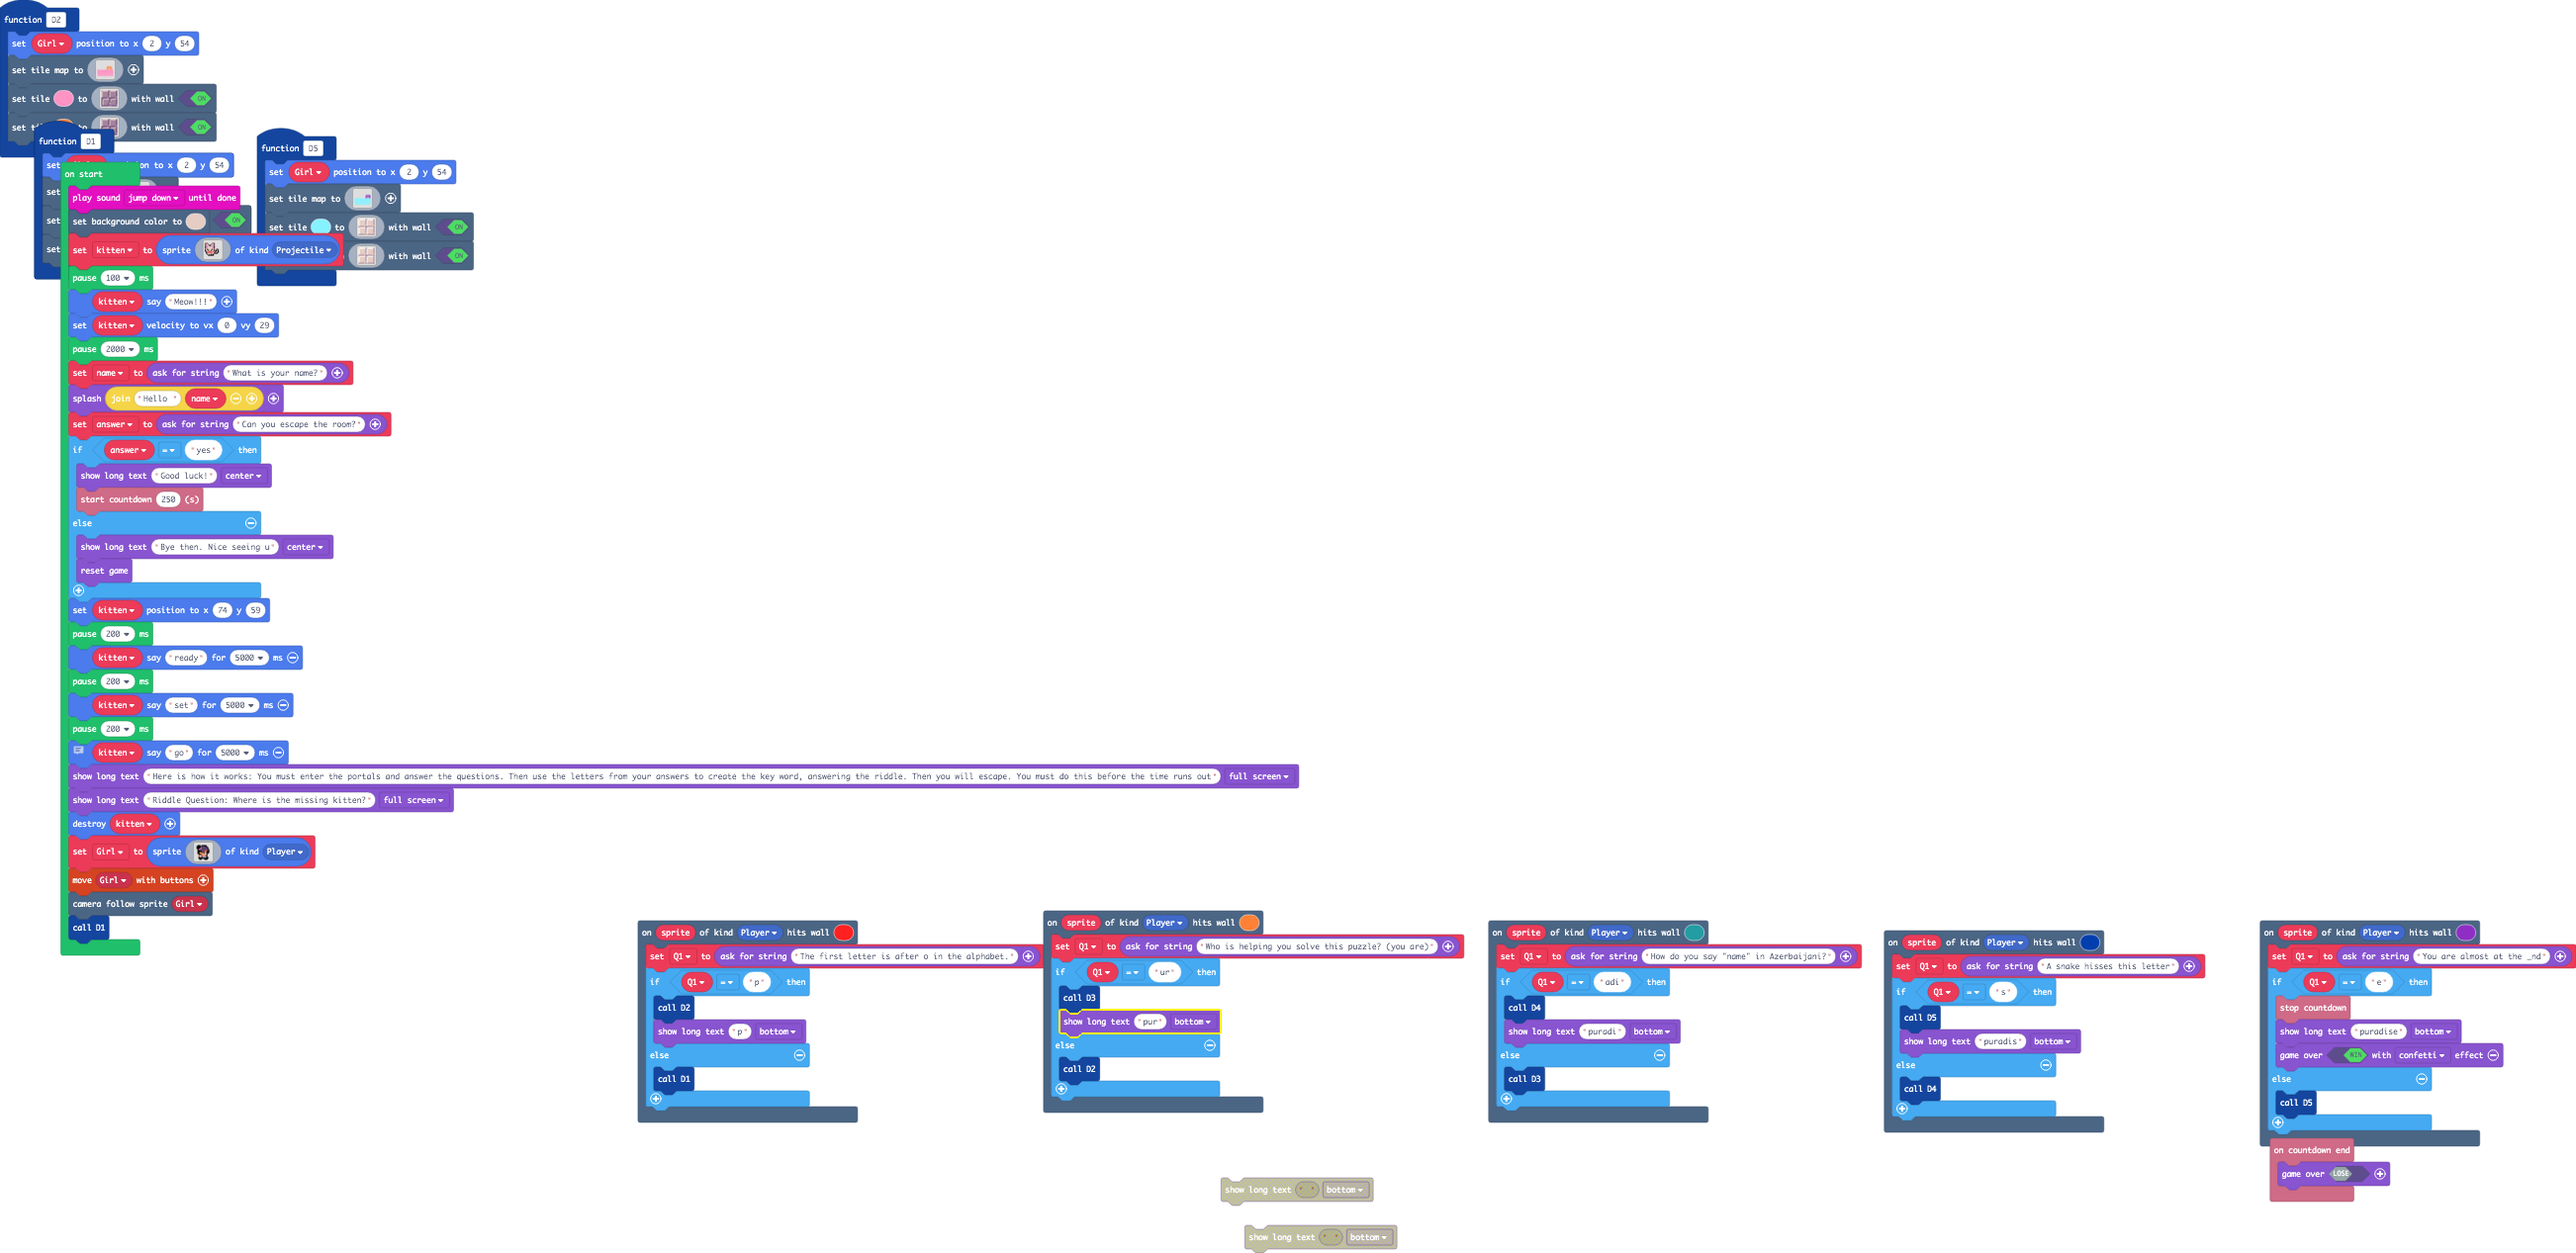
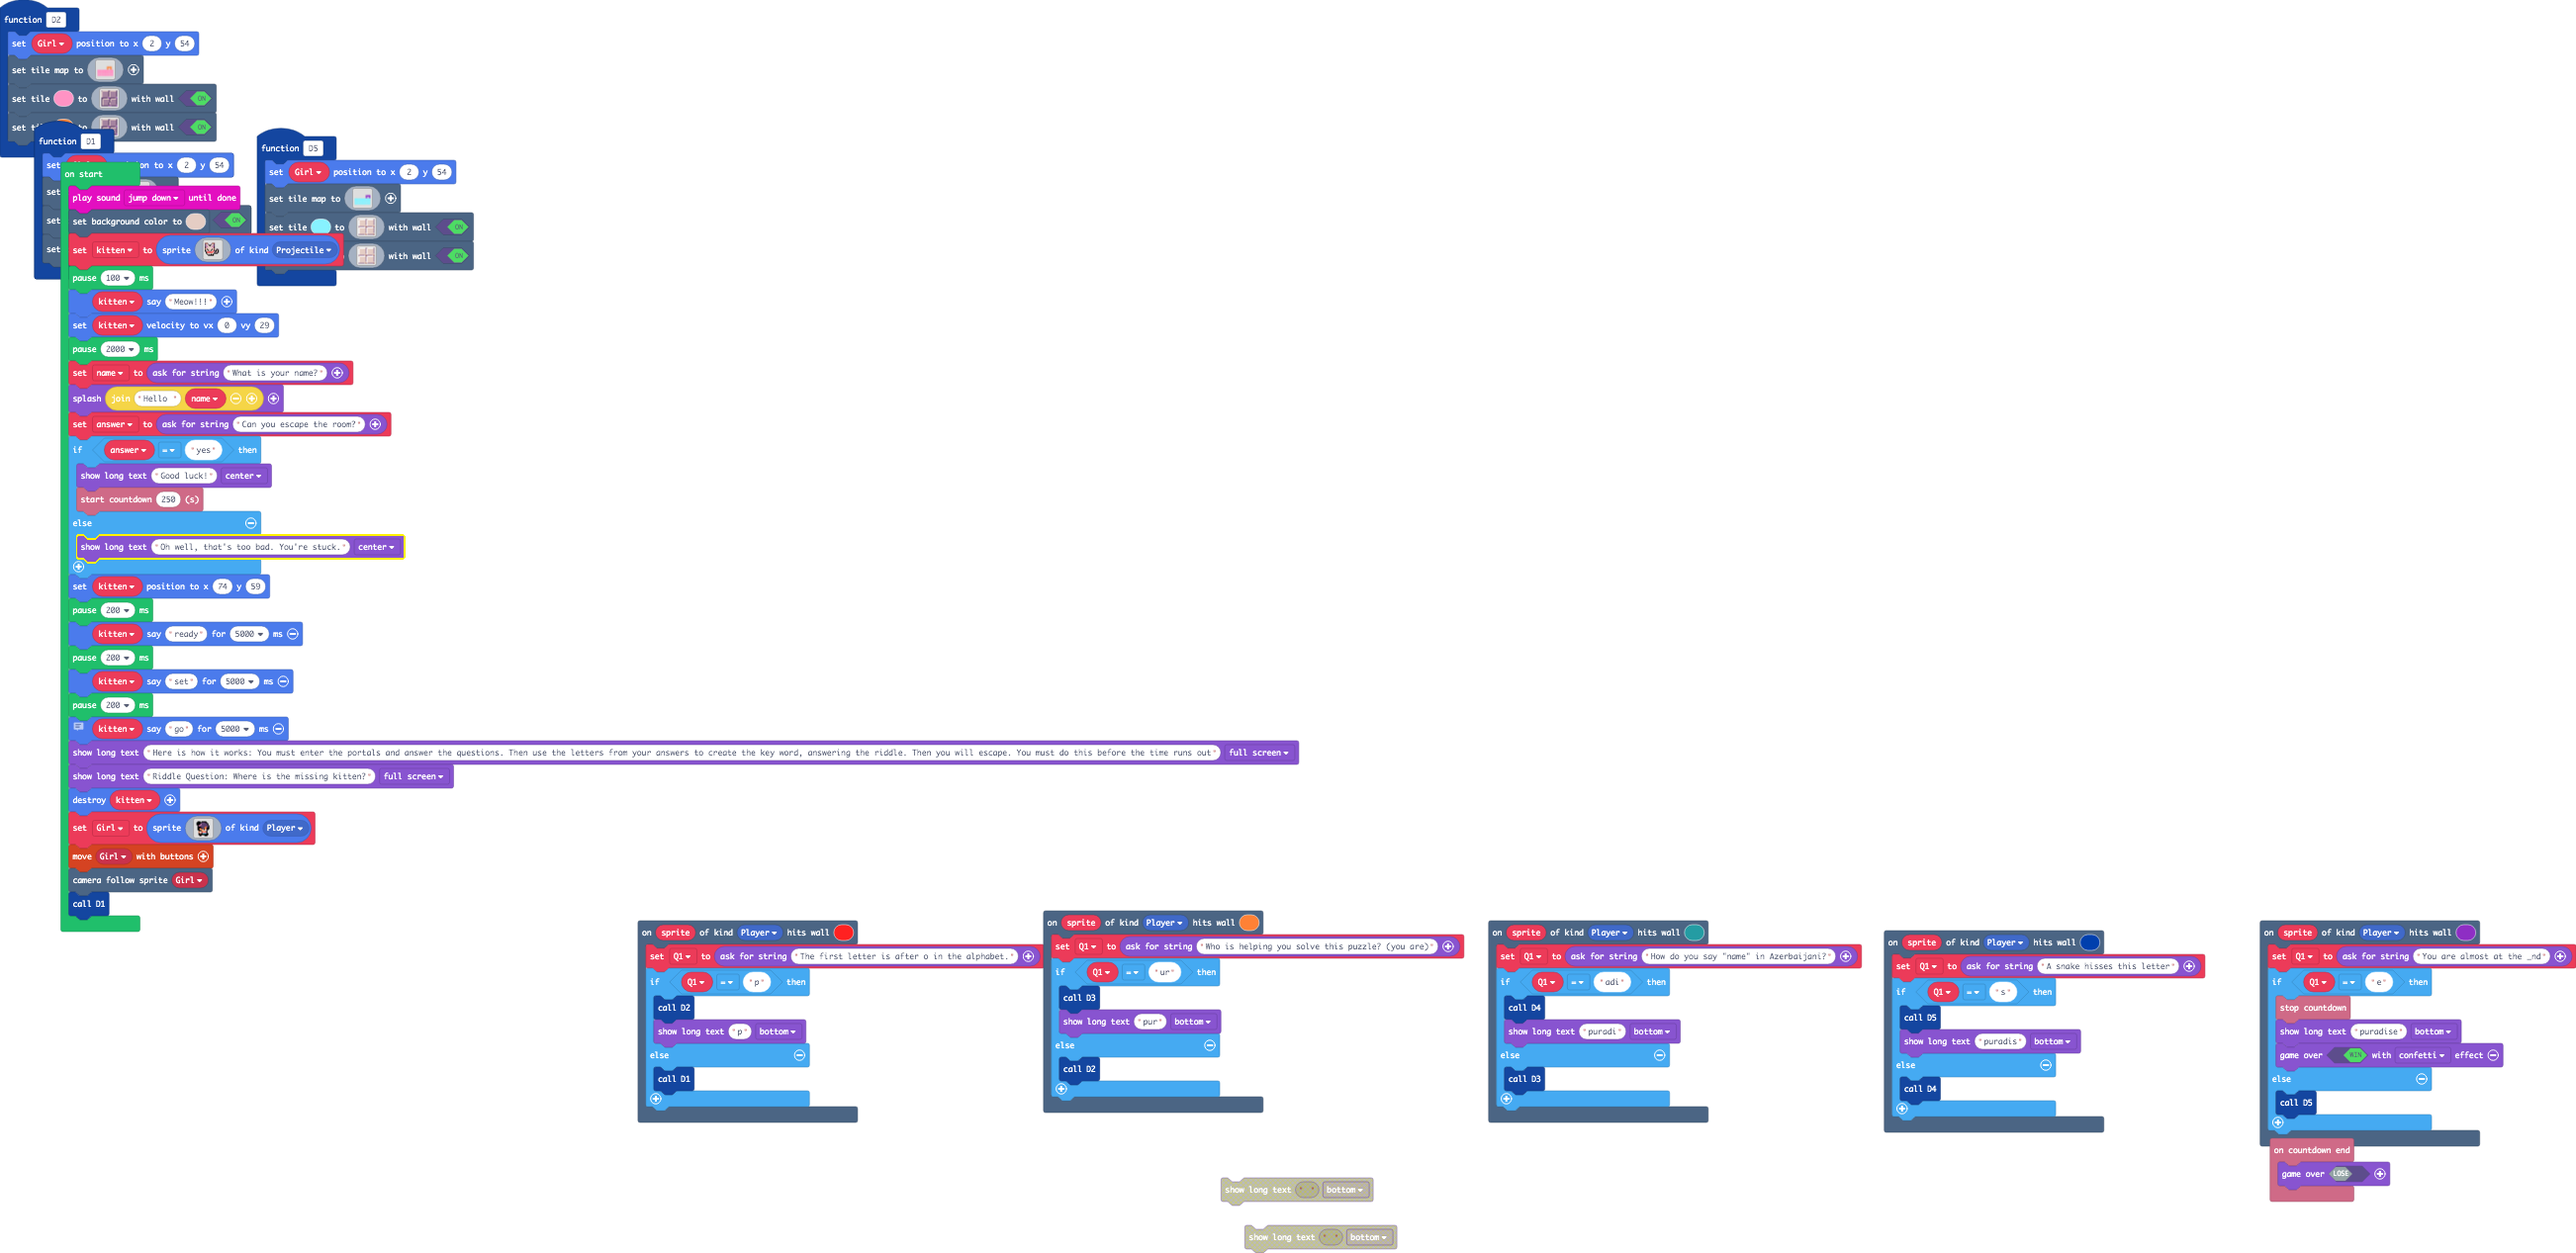
Update main.blocks, main.ts

Changed region(s): [[0.0, 0.4002, 0.5288, 0.7695], [0.4355, 0.8003, 0.4666, 0.8311]]

diff --git a/main.ts b/main.ts
@@ -351,8 +351,7 @@ if (answer == "yes") {
     game.showLongText("Good luck!", DialogLayout.Center)
     info.startCountdown(250)
 } else {
-    game.showLongText("Bye then. Nice seeing u", DialogLayout.Center)
-    game.reset()
+    game.showLongText("Oh well, that's too bad. You're stuck.", DialogLayout.Center)
 }
 kitten.setPosition(74, 59)
 pause(200)
